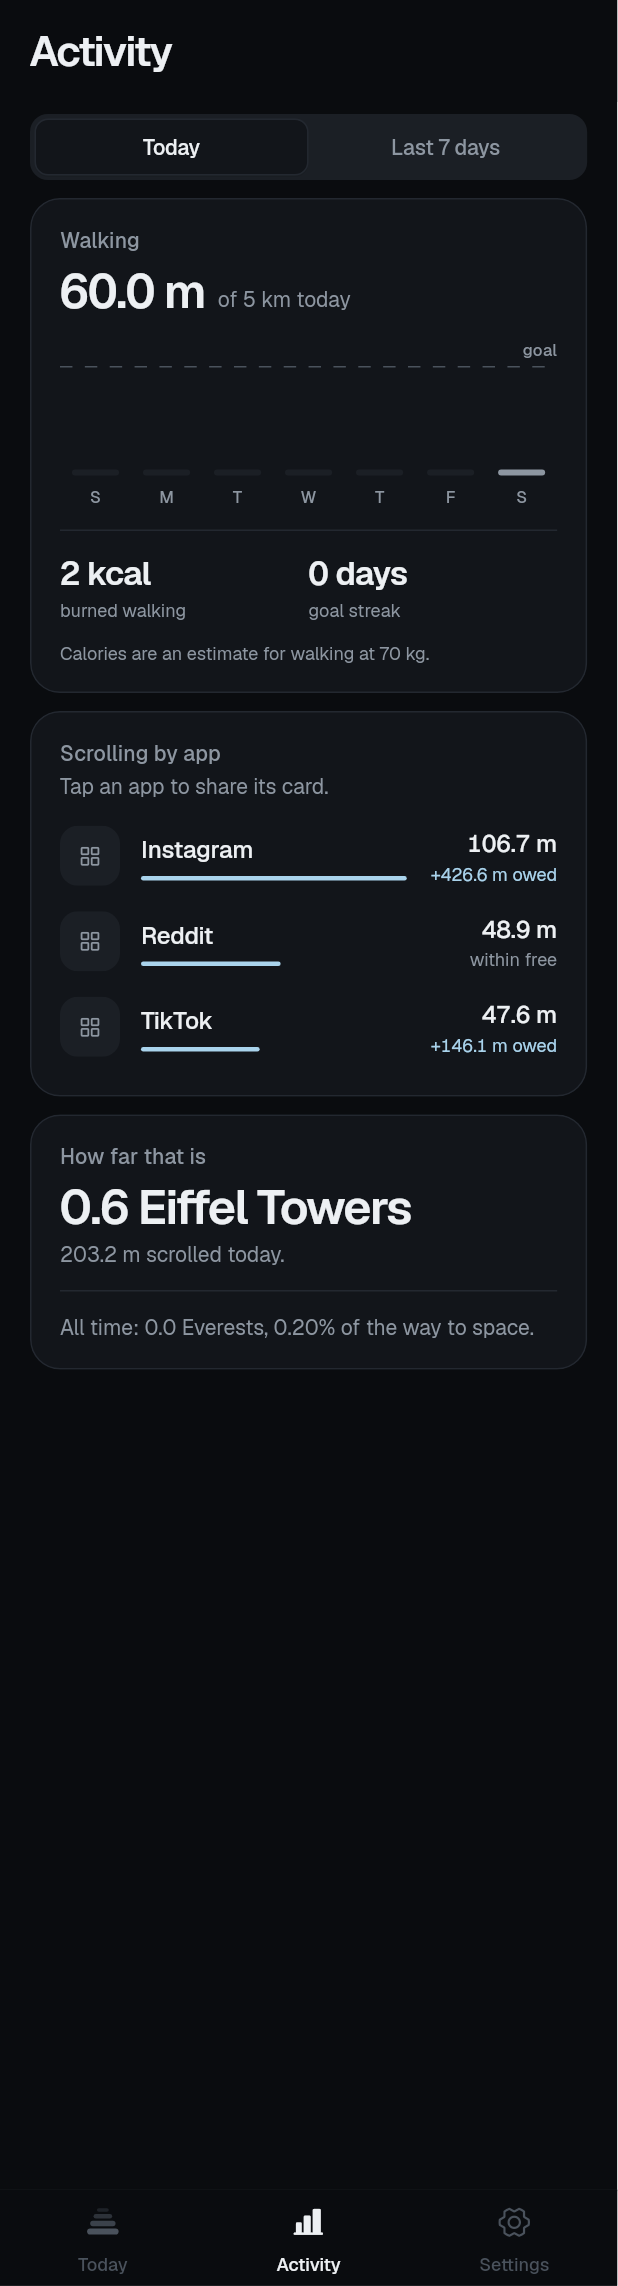
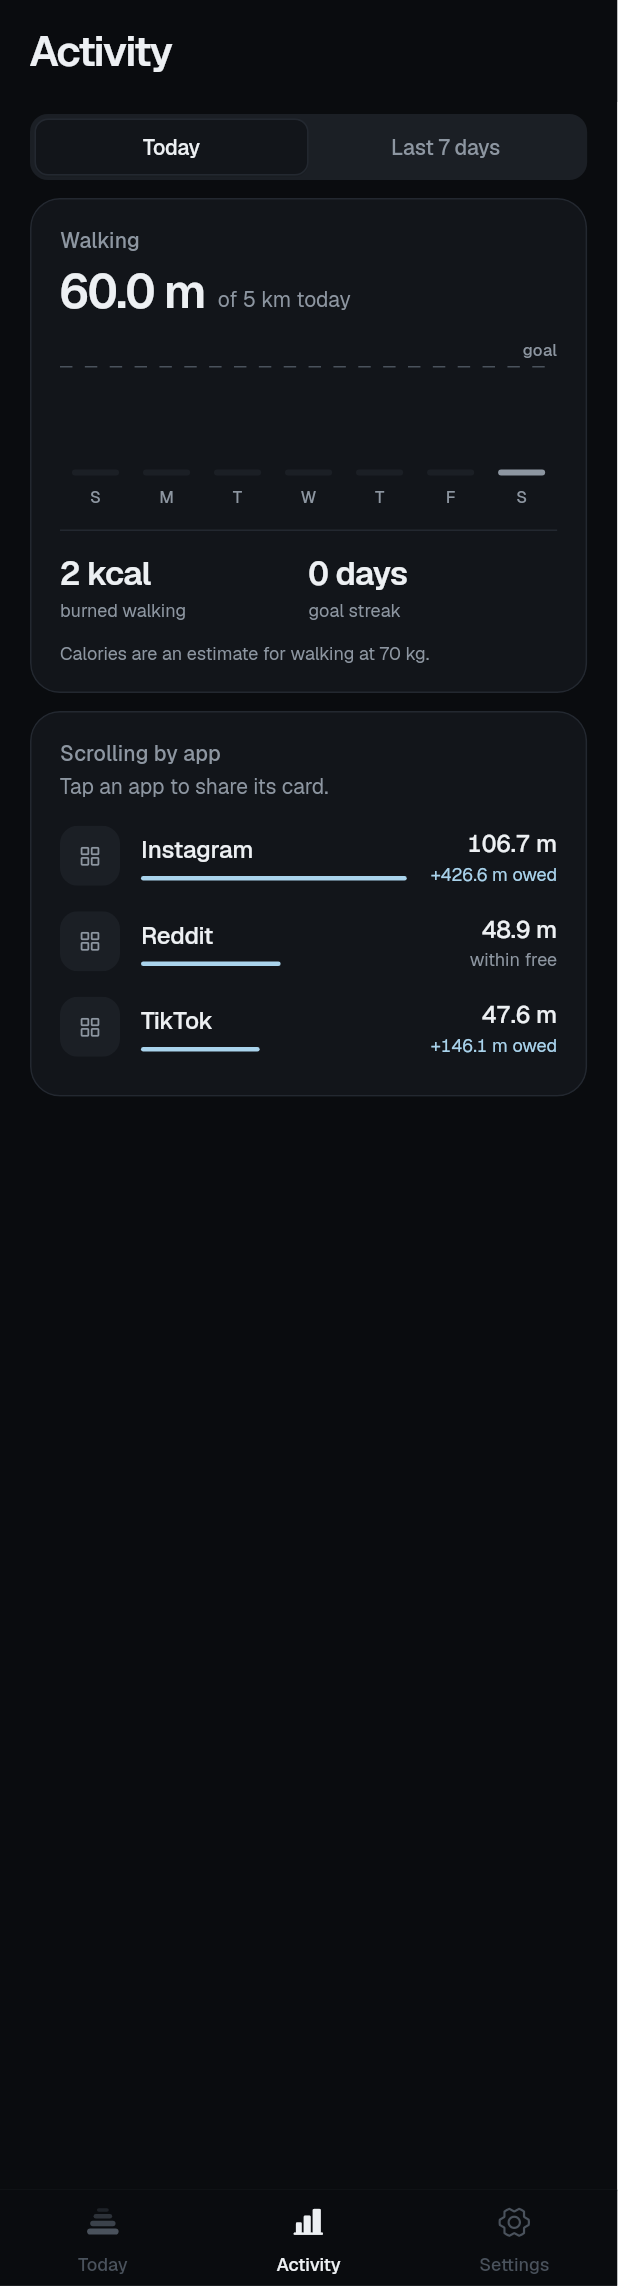
Did you know? on Today, and a developer reset
The landmark panel (Eiffel Towers today, all-time Everests and the way to
space) moves from Activity to Today as a "Did you know?" section above
Most scrolled today, with a plain sentence about today's distance.

Developer options gain "Reset walking and scrolling": after a
confirmation it zeroes debt, steps, scrolling, history, tracking gaps
and passes, keeping settings. Gated on the developer switch like the
other tools, with a pipeline test.

Claude-Session: https://claude.ai/code/session_01S7Vnw3e55gC1ugHexRR9iv

Changed region(s): [[0.0922, 0.4969, 0.6764, 0.5901], [0.7686, 0.5591, 0.8608, 0.5901], [0.6764, 0.5591, 0.7071, 0.5901]]

diff --git a/lib/ui/home_screen.dart b/lib/ui/home_screen.dart
@@ -152,6 +152,11 @@ class _TodayTab extends StatelessWidget {
             padding: const EdgeInsets.symmetric(horizontal: Gaps.margin),
             child: _TodayCard(c: c, onOpenActivity: onOpenActivity),
           ),
+          const SectionTitle('Did you know?'),
+          Padding(
+            padding: const EdgeInsets.symmetric(horizontal: Gaps.margin),
+            child: _DidYouKnow(c: c),
+          ),
           SectionTitle(
             'Most scrolled today',
             action: c.todayApps.isEmpty ? null : 'See all',
@@ -678,7 +683,6 @@ class _ActivityTabState extends State<_ActivityTab> {
       ),
       _WalkingPanel(c: c, week: _week),
       _AppsPanel(c: c, week: _week),
-      _LandmarksPanel(c: c, week: _week),
     ]);
   }
 }
@@ -879,34 +883,44 @@ class _AppRow extends StatelessWidget {
   }
 }
 
-class _LandmarksPanel extends StatelessWidget {
-  const _LandmarksPanel({required this.c, required this.week});
+/// Today's scrolling as a landmark, plus the all-time total, on Today.
+class _DidYouKnow extends StatelessWidget {
+  const _DidYouKnow({required this.c});
   final ScrollDebtController c;
-  final bool week;
 
   @override
   Widget build(BuildContext context) {
     final t = Theme.of(context).textTheme;
     final col = context.colors;
-    final metres = week ? c.weekRawM : c.state.scrolledTodayM;
-    final tier = week ? LandmarkTier.week : LandmarkTier.today;
+    final metres = c.state.scrolledTodayM;
+    final mark = LandmarkTier.today.yardstick;
+    final lifetime = c.lifetimeRawM;
     return _Panel(
       child: Column(crossAxisAlignment: CrossAxisAlignment.start, children: [
-        Text('How far that is', style: t.labelLarge?.copyWith(color: col.muted)),
-        const SizedBox(height: 6),
-        Text(tier.yardstick.count(metres), style: t.headlineLarge),
-        const SizedBox(height: 4),
-        Text(
-          '${formatMetres(metres)} scrolled ${week ? 'in 7 days' : 'today'}.',
-          style: t.bodyMedium?.copyWith(color: col.muted),
-        ),
+        if (metres < 0.05) ...[
+          Text('${formatRound(mark.heightM)} tall', style: t.headlineMedium?.merge(numeric)),
+          const SizedBox(height: 4),
+          Text(
+            'That\'s the ${mark.name}. Nothing scrolled yet today, so you haven\'t climbed any of it.',
+            style: t.bodyMedium?.copyWith(color: col.muted),
+          ),
+        ] else ...[
+          Text(mark.count(metres), style: t.headlineMedium?.merge(numeric)),
+          const SizedBox(height: 4),
+          Text(
+            'You\'ve scrolled ${formatMetres(metres)} today. Stood on end, that\'s '
+            '${metres >= mark.heightM ? 'taller than' : '${(metres / mark.heightM * 100).round()}% of'} '
+            'the ${mark.name}.',
+            style: t.bodyMedium?.merge(numeric).copyWith(color: col.muted),
+          ),
+        ],
         const SizedBox(height: 14),
         const Divider(),
         const SizedBox(height: 14),
         Text(
-          'All time: ${LandmarkTier.lifetime.yardstick.count(c.lifetimeRawM)}, '
-          '${(c.lifetimeRawM / karman.heightM * 100).toStringAsFixed(c.lifetimeRawM < 1000 ? 2 : 1)}% of the way to space.',
-          style: t.bodyMedium?.copyWith(color: col.muted),
+          'All time: ${LandmarkTier.lifetime.yardstick.count(lifetime)}, '
+          '${(lifetime / karman.heightM * 100).toStringAsFixed(lifetime < 1000 ? 2 : 1)}% of the way to space.',
+          style: t.bodyMedium?.merge(numeric).copyWith(color: col.muted),
         ),
       ]),
     );

diff --git a/lib/ui/settings_screen.dart b/lib/ui/settings_screen.dart
@@ -521,6 +521,28 @@ class _DeveloperToolsState extends State<DeveloperTools> {
         },
       ),
       ListTile(
+        leading: const Icon(Ph.trash),
+        title: const Text('Reset walking and scrolling'),
+        subtitle: const Text('Debt, steps, scrolling and history back to zero. Settings are kept.'),
+        onTap: () async {
+          final ok = await showDialog<bool>(
+            context: context,
+            builder: (d) => AlertDialog(
+              title: const Text('Reset walking and scrolling?'),
+              content: const Text('Debt, today\'s steps and scrolling, history and tracking gaps are deleted. '
+                  'Settings are kept.'),
+              actions: [
+                TextButton(onPressed: () => Navigator.pop(d, false), child: const Text('Cancel')),
+                TextButton(onPressed: () => Navigator.pop(d, true), child: const Text('Reset')),
+              ],
+            ),
+          );
+          if (ok != true) return;
+          await c.devResetTracking();
+          if (mounted) _done('Walking and scrolling reset');
+        },
+      ),
+      ListTile(
         leading: const Icon(Ph.arrowCounterClockwise),
         title: const Text('Show setup again'),
         subtitle: const Text('Opens the permission walkthrough from the start'),

diff --git a/test/pipeline_test.dart b/test/pipeline_test.dart
@@ -128,6 +128,26 @@ void main() {
     c.dispose();
   });
 
+  test('developer reset zeroes walking, scrolling and debt but keeps settings', () async {
+    final c = await ScrollDebtController.start();
+    await c.updateConfig(const DebtConfig(allowanceM: 0));
+    await c.setDeveloperOptions(true);
+    c.devAddScroll('com.instagram.android', 10);
+    c.devAddSteps(10);
+    expect(c.debtM, greaterThan(0));
+    await c.setDeveloperOptions(false);
+    await c.devResetTracking(); // switch off: nothing happens
+    expect(c.state.scrolledTodayM, closeTo(10, 1e-9));
+    await c.setDeveloperOptions(true);
+    await c.devResetTracking();
+    expect(c.debtM, 0);
+    expect(c.state.scrolledTodayM, 0);
+    expect(c.state.walkedTodayM, 0);
+    expect(c.todayApps, isEmpty);
+    expect(c.config.allowanceM, 0);
+    c.dispose();
+  });
+
   test('turning developer options off also ends demo mode', () async {
     final c = await ScrollDebtController.start();
     await c.setDeveloperOptions(true);

diff --git a/lib/services/controller.dart b/lib/services/controller.dart
@@ -373,6 +373,12 @@ class ScrollDebtController extends ChangeNotifier {
     _changed();
   }
 
+  /// Walking, scrolling and debt back to zero, history and passes included.
+  /// Settings are kept. The same wipe as Privacy's erase, one tap closer.
+  Future<void> devResetTracking() async {
+    if (developerOptions) await resetAll();
+  }
+
   /// Shows the setup flow again from the start.
   Future<void> devReplayOnboarding() async {
     if (!developerOptions) return;

diff --git a/test/render_screens_test.dart b/test/render_screens_test.dart
@@ -135,6 +135,7 @@ void main() {
     Navigator.of(tester.element(find.byType(LedgerView))).pop();
     await tester.pump(const Duration(seconds: 1));
     tester.view.physicalSize = const Size(1080, 4000);
+    await shot('tab_today', null);
     await tab('Activity');
     await shot('tab_activity', null);
     await tab('Settings');

diff --git a/DECISIONS.md b/DECISIONS.md
@@ -257,3 +257,9 @@ Audited against the taste-skill anti-slop rules (Leonxlnx/taste-skill).
 * **System bars:** edge-to-edge with transparent status and navigation bars
   and Android's contrast scrim off, so the area behind the back / home /
   recents buttons is the app's own colour in light and dark mode.
+* **Did you know?** The landmark panel moved from Activity to Today, between
+  the Today card and Most scrolled today: today's scrolling in Eiffel Towers
+  with a plain sentence, and the all-time line.
+* **Developer reset:** *Reset walking and scrolling* in Developer options
+  (`devResetTracking`) does the same wipe as Privacy's erase (debt, steps,
+  scrolling, history, gaps, passes; settings kept) after a confirmation.
